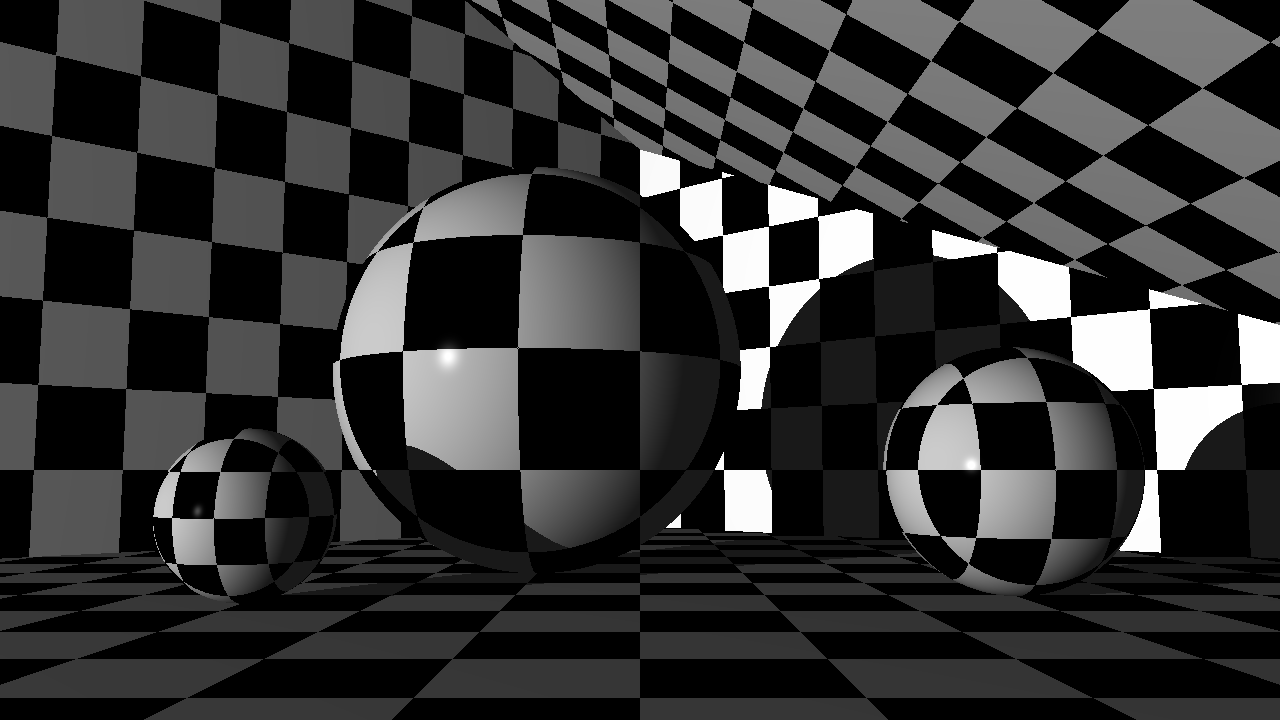
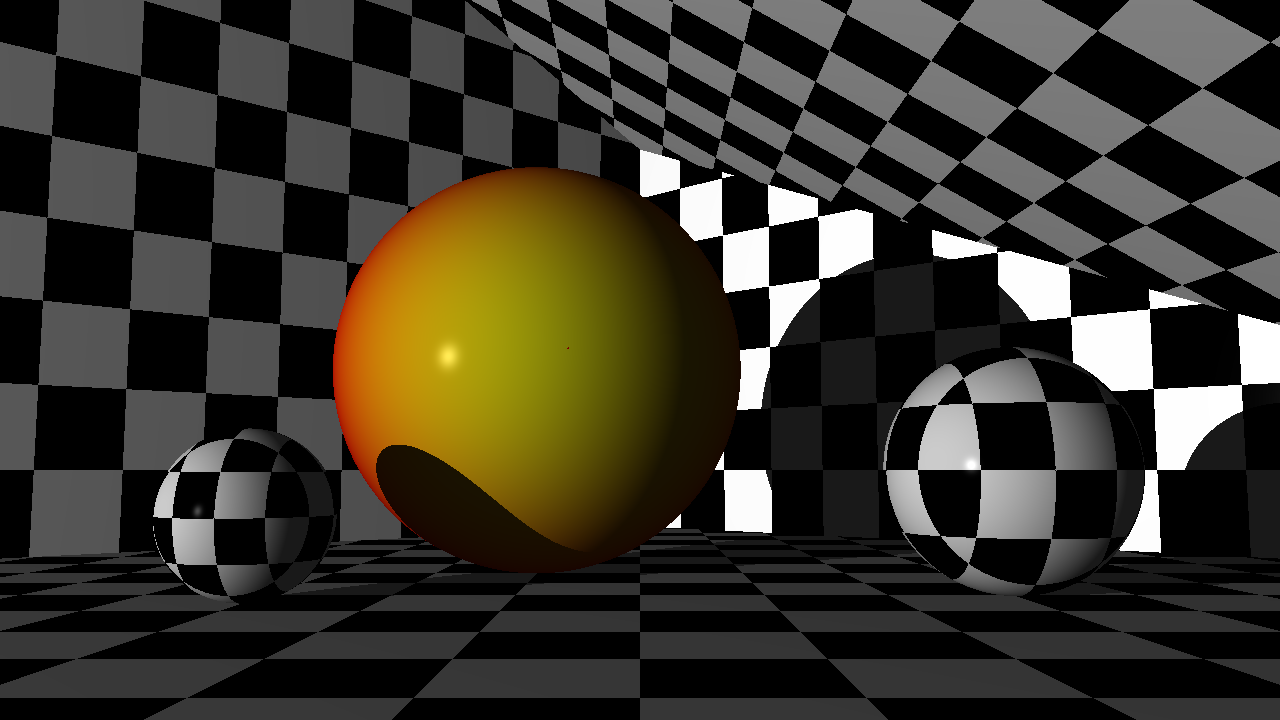
Reflection

Changed region(s): [[0.25, 0.2139, 0.5938, 0.7944]]

diff --git a/tests/Vec4_test.cpp b/tests/Vec4_test.cpp
@@ -1180,7 +1180,7 @@ TEST(SeventhChapter, DefaultWorld) {
   std::shared_ptr<TJRayTracer::BaseObject> s1 =
       std::make_shared<TJRayTracer::Sphere>();
   s1->material = std::make_shared<TJRayTracer::Material>(
-      TJRayTracer::Color(0.8, 1.0, 0.6), 0.1, 0.7, 0.2, 200, nullptr);
+      TJRayTracer::Color(0.8, 1.0, 0.6), 0.1, 0.7, 0.2, 200, nullptr, 0.0);
   std::shared_ptr<TJRayTracer::BaseObject> s2 =
       std::make_shared<TJRayTracer::Sphere>(
           TJRayTracer::TF::scaling(0.5, 0.5, 0.5));
@@ -1247,7 +1247,7 @@ TEST(SeventhChapter, ShadingAnIntersection) {
   auto r = Ray(Point(0, 0, -5), Vector(0, 0, 1));
   std::shared_ptr<BaseObject> s1 = std::make_shared<TJRayTracer::Sphere>();
   s1->material = std::make_shared<Material>(Color(0.8, 1.0, 0.6), 0.1, 0.7, 0.2,
-                                            200, nullptr);
+                                            200, nullptr, 0.0);
   auto i = Intersection(4, s1);
   auto comps = Comps::prepare_computations(i, r);
   auto c = w.shade_hit(comps);
@@ -1718,6 +1718,89 @@ TEST(Tenth, CheckersShouldRepeatInZ) {
   ASSERT_EQ(pattern->pattern_at(Point(0, 0, 0)), white);
   ASSERT_EQ(pattern->pattern_at(Point(0, 0, 0.99)), white);
   ASSERT_EQ(pattern->pattern_at(Point(0, 0, 1.01)), black);
+}
+
+TEST(Eleventh, ReflectionVector) {
+  using namespace TJRayTracer;
+  std::shared_ptr<BaseObject> shape = std::make_shared<Plane>();
+  Ray r(Point(0, 1, -1), Vector(0, -sqrt(2) / 2, sqrt(2) / 2));
+  Intersection i(sqrt(2) / 2, shape);
+  auto comps = Comps::prepare_computations(i, r);
+  ASSERT_EQ(comps.reflectv, Vector(0, sqrt(2) / 2, sqrt(2) / 2));
+}
+
+TEST(Eleventh, TheReflectedColorForANonreflectiveMaterial) {
+  using namespace TJRayTracer;
+  World w;
+  w.default_world();
+  Ray r(Point(0, 0, 0), Vector(0, 0, 1));
+  auto shape = w.objects[1];
+  shape->material->ambient = 1;
+  Intersection i(1, shape);
+  auto comps = Comps::prepare_computations(i, r);
+  Color color = w.reflected_color(comps);
+  ASSERT_EQ(color, Color(0, 0, 0));
+}
+
+TEST(Eleventh, TheReflectedColorForAReflectiveMaterial) {
+  using namespace TJRayTracer;
+  std::shared_ptr<BaseObject> shape = std::make_shared<Plane>();
+  shape->material->reflective = 0.5;
+  shape->SetTransform(TF::translation(0, -1, 0));
+  World w;
+  w.default_world();
+  w.objects.push_back(shape);
+  Ray r(Point(0, 0, -3), Vector(0, -sqrt(2) / 2, sqrt(2) / 2));
+  Intersection i(sqrt(2), shape);
+  auto comps = Comps::prepare_computations(i, r);
+  Color color = w.reflected_color(comps);
+  ASSERT_EQ(color, Color(0.190332, 0.237915, 0.142749));
+}
+
+TEST(Eleventh, shade_hitWithAReflectiveMaterial) {
+  using namespace TJRayTracer;
+  std::shared_ptr<BaseObject> shape = std::make_shared<Plane>();
+  shape->material->reflective = 0.5;
+  shape->SetTransform(TF::translation(0, -1, 0));
+  World w;
+  w.default_world();
+  w.objects.push_back(shape);
+  Ray r(Point(0, 0, -3), Vector(0, -sqrt(2) / 2, sqrt(2) / 2));
+  Intersection i(sqrt(2), shape);
+  auto comps = Comps::prepare_computations(i, r);
+  Color color = w.shade_hit(comps);
+  ASSERT_EQ(color, Color(0.876757, 0.92435, 0.82918));
+}
+
+TEST(Eleventh, TwoMirrorsInfinityLoop) {
+  using namespace TJRayTracer;
+  World w;
+  w.light_sources.push_back(PointLight(Point(0, 0, 0), Color(1, 1, 1)));
+  std::shared_ptr<BaseObject> lower = std::make_shared<Plane>();
+  lower->material->reflective = 1;
+  lower->SetTransform(TF::translation(0, -1, 0));
+  std::shared_ptr<BaseObject> upper = std::make_shared<Plane>();
+  upper->material->reflective = 1;
+  upper->SetTransform(TF::translation(0, 1, 0));
+  w.objects.push_back(lower);
+  w.objects.push_back(upper);
+  Ray r(Point(0, 0, 0), Vector(0, 1, 0));
+  Color c = w.color_at(r);
+}
+
+TEST(Eleventh, TheReflectedColorAtTheMaximumRecursiveDepth) {
+  using namespace TJRayTracer;
+  World w;
+  w.default_world();
+  std::shared_ptr<BaseObject> shape = std::make_shared<Plane>();
+  shape->material->reflective = 0.5;
+  shape->SetTransform(TF::translation(0, -1, 0));
+  w.objects.push_back(shape);
+  Ray r(Point(0, 0, -3), Vector(0, -sqrt(2) / 2, sqrt(2) / 2));
+  auto i = Intersection(sqrt(2), shape);
+  auto comps = Comps::prepare_computations(i, r);
+  Color color = w.reflected_color(comps, 0);
+  ASSERT_EQ(color, Color(0, 0, 0));
 }
 
 int main(int argc, char **argv) {

diff --git a/src/TJRayTracer/World.cpp b/src/TJRayTracer/World.cpp
@@ -2,12 +2,13 @@
 // Created by tomas on 9. 2. 2023.
 //
 #include "World.h"
+#include "Equal.h"
 #include "Sphere.h"
 void TJRayTracer::World::default_world() {
   TJRayTracer::PointLight light(Point(-10, 10, -10), Color(1, 1, 1));
   std::unique_ptr<BaseObject> s1 = std::make_unique<TJRayTracer::Sphere>();
   s1->material = std::make_shared<Material>(Color(0.8, 1.0, 0.6), 0.1, 0.7, 0.2,
-                                            200, nullptr);
+                                            200, nullptr, 0.0);
   std::unique_ptr<BaseObject> s2 =
       std::make_unique<TJRayTracer::Sphere>(TF::scaling(0.5, 0.5, 0.5));
   objects.clear();
@@ -34,24 +35,29 @@ TJRayTracer::World::intersect_world(const TJRayTracer::Ray &ray) {
 }
 
 TJRayTracer::Color
-TJRayTracer::World::shade_hit(const TJRayTracer::Comps &comps) {
-  TJRayTracer::Color color;
+TJRayTracer::World::shade_hit(const TJRayTracer::Comps &comps,
+                              unsigned int remaining) {
+  TJRayTracer::Color surface;
+  TJRayTracer::Color reflected;
   for (auto &light : light_sources) {
     bool shadowed = this->is_shadowed(comps.over_point);
-    color = color + TJRayTracer::PointLight::lighting(
-                        comps.object->material, comps.object, light,
-                        comps.over_point, comps.eyev, comps.normalv, shadowed);
+    surface =
+        surface + TJRayTracer::PointLight::lighting(
+                      comps.object->material, comps.object, light,
+                      comps.over_point, comps.eyev, comps.normalv, shadowed);
+    reflected = this->reflected_color(comps, remaining);
   }
-  return color;
+  return surface + reflected;
 }
 
-TJRayTracer::Color TJRayTracer::World::color_at(const TJRayTracer::Ray &ray) {
+TJRayTracer::Color TJRayTracer::World::color_at(const TJRayTracer::Ray &ray,
+                                                unsigned int remaining) {
   auto intersections = this->intersect_world(ray);
   if (intersections.size() != 0) {
     for (auto &intersection : intersections) {
       if (intersection.t >= 0) {
         auto comps = Comps::prepare_computations(intersection, ray);
-        return this->shade_hit(comps);
+        return this->shade_hit(comps, remaining);
       }
     }
   }
@@ -69,4 +75,15 @@ bool TJRayTracer::World::is_shadowed(const Point &point) {
     return true;
   }
   return false;
+}
+
+TJRayTracer::Color TJRayTracer::World::reflected_color(const Comps &comps,
+                                                       unsigned int remaining) {
+  if (equal(comps.object->material->reflective, 0) || (remaining <= 0)) {
+    return Color(0, 0, 0);
+  }
+
+  Ray reflect_ray = Ray(comps.over_point, comps.reflectv);
+  Color color = this->color_at(reflect_ray, remaining - 1);
+  return (color * comps.object->material->reflective);
 }

diff --git a/src/main.cpp b/src/main.cpp
@@ -5,6 +5,7 @@
 #include "TJRayTracer/Camera.h"
 #include "TJRayTracer/Canvas.h"
 #include "TJRayTracer/CheckersPattern.h"
+#include "TJRayTracer/GradientPattern.h"
 #include "TJRayTracer/Material.h"
 #include "TJRayTracer/MatrixXd.h"
 #include "TJRayTracer/Plane.h"
@@ -58,11 +59,16 @@ int main() {
   right_wall->material = std::make_shared<TJRayTracer::Material>();
   right_wall->material->pattern = pattern;
 
+  std::shared_ptr<TJRayTracer::BasePattern> gradient =
+      std::make_shared<TJRayTracer::GradientPattern>(
+          TJRayTracer::Color(1, 0, 0),
+          TJRayTracer::Color(1, 253 / (double)255, 15 / double(255)));
+  gradient->SetTransform(TJRayTracer::TF::rotation_y(M_PI / 2.3));
   std::shared_ptr<TJRayTracer::BaseObject> middle =
       std::make_shared<TJRayTracer::Sphere>();
   middle->SetTransform(TJRayTracer::TF::translation(-0.5, 1, 0.5));
   middle->material = std::make_shared<TJRayTracer::Material>();
-  middle->material->pattern = pattern;
+  middle->material->pattern = gradient;
   middle->material->color = TJRayTracer::Color(0.1, 1, 0.5);
   middle->material->diffuse = 0.7;
   middle->material->specular = 0.3;

diff --git a/src/TJRayTracer/Material.cpp b/src/TJRayTracer/Material.cpp
@@ -5,9 +5,10 @@
 #include "Material.h"
 TJRayTracer::Material::Material(
     const Color &color, double ambient, double diffuse, double specular,
-    double shininess, const std::shared_ptr<BasePattern> strippedPattern)
+    double shininess, const std::shared_ptr<BasePattern> strippedPattern,
+    double reflective)
     : color(color), ambient(ambient), diffuse(diffuse), specular(specular),
-      shininess(shininess), pattern(strippedPattern) {}
+      shininess(shininess), pattern(strippedPattern), reflective(reflective) {}
 
 TJRayTracer::Material::Material() {
   color = Color(1, 1, 1);
@@ -16,6 +17,7 @@ TJRayTracer::Material::Material() {
   specular = 0.9;
   shininess = 200.0;
   pattern = nullptr;
+  reflective = 0.0;
 }
 namespace TJRayTracer {
 bool operator==(const std::shared_ptr<TJRayTracer::Material> &lhs,

diff --git a/src/TJRayTracer/Material.h b/src/TJRayTracer/Material.h
@@ -13,7 +13,8 @@ class Material {
 public:
   Material();
   Material(const Color &color, double ambient, double diffuse, double specular,
-           double shininess, const std::shared_ptr<BasePattern> pattern);
+           double shininess, const std::shared_ptr<BasePattern> pattern,
+           double reflective);
   ~Material() = default;
   Material(Material &&) = default;
   Material &operator=(Material &&) = default;
@@ -29,6 +30,7 @@ public:
   double specular;
   double shininess;
   std::shared_ptr<BasePattern> pattern;
+  double reflective;
 };
 } // namespace TJRayTracer
 

diff --git a/src/TJRayTracer/World.h b/src/TJRayTracer/World.h
@@ -19,8 +19,10 @@ public:
 
 public:
   [[nodiscard]] std::vector<Intersection> intersect_world(const Ray &ray);
-  TJRayTracer::Color shade_hit(const Comps &comps);
-  TJRayTracer::Color color_at(const Ray &ray);
+  TJRayTracer::Color shade_hit(const Comps &comps, unsigned int remaining = 5);
+  TJRayTracer::Color color_at(const Ray &ray, unsigned int remaining = 5);
+  TJRayTracer::Color reflected_color(const Comps &comps,
+                                     unsigned int remaining = 5);
   bool is_shadowed(const Point &point);
 
 public:

diff --git a/src/TJRayTracer/Camera.cpp b/src/TJRayTracer/Camera.cpp
@@ -36,7 +36,7 @@ TJRayTracer::Canvas TJRayTracer::Camera::render(TJRayTracer::World &world) {
   for (std::size_t y = 0; y < vsize; ++y) {
     for (std::size_t x = 0; x < hsize; ++x) {
       TJRayTracer::Ray ray = this->ray_for_pixel(x, y);
-      TJRayTracer::Color color = world.color_at(ray);
+      TJRayTracer::Color color = world.color_at(ray, 2);
       canvas.SetPixelColor(x, y, color);
     }
   }

diff --git a/src/TJRayTracer/Comps.cpp b/src/TJRayTracer/Comps.cpp
@@ -21,6 +21,7 @@ TJRayTracer::Comps TJRayTracer::Comps::prepare_computations(
     result.inside = false;
   }
   result.over_point = result.point + result.normalv * EPSILON;
+  result.reflectv = Vector::reflect(ray.GetDirection(), result.normalv);
 
   return result;
 }

diff --git a/src/TJRayTracer/Comps.h b/src/TJRayTracer/Comps.h
@@ -17,6 +17,7 @@ public:
   Vector eyev;
   Vector normalv;
   bool inside;
+  Vector reflectv;
 
 public:
   static TJRayTracer::Comps
